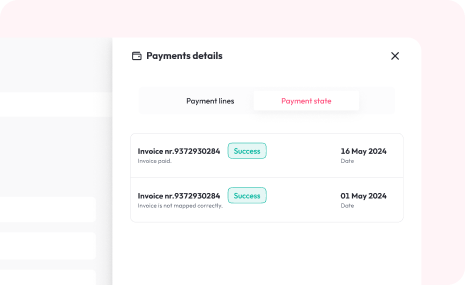
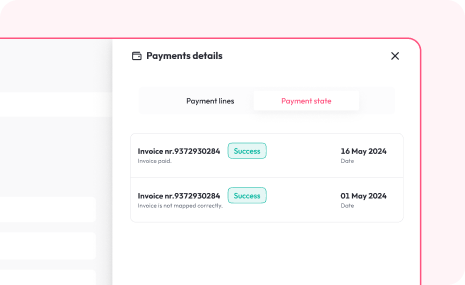
19 add rest of images and db data (#21)
* Add Avatar and Navigation thumbs

* Add new asset images and update constants for Breadcrumbs, Checkbox, Datepicker, Drawer, Dropdown, and Empty

* Add new asset images and update constants for List, Header, Pagination, Sidebar, Range, Icon, Form, Table, and Toggle

* Add new image assets for text area and text field

- Added 'Text area.png'
- Added 'Text field.png'

Changed region(s): [[0.0, 0.1123, 0.9032, 0.1684], [0.9032, 0.1684, 0.9333, 1.0]]

diff --git a/src/constants/index.ts b/src/constants/index.ts
@@ -17,6 +17,24 @@ export const IMAGES: Record<string, string> = {
   DRAWER: "Drawer",
   DROPDOWN: "Dropdown",
   EMPTY: "Empty",
+  LIST: "List",
+  HEADER: "Header",
+  PAGINATION: "Pagination",
+  SIDEBAR: "Sidebar",
+  RANGE: "Range",
+  ICON: "Icon",
+  FORM: "Form",
+  TABLE: "Table",
+  TOGGLE: "Toggle",
+  SPINNER: "Spinner",
+  RADIOBUTTON: "Radio Button",
+  BUTTONGROUP: "Button Group",
+  TABS: "Tabs",
+  CODE: "Code",
+  TEXTFIELD: "Text field",
+  INLINEMESSAGE: "Inline message",
+  TEXTAREA: "Text area",
+  TABLETREE: "Table tree",
 };
 
 export const LINKS = [
